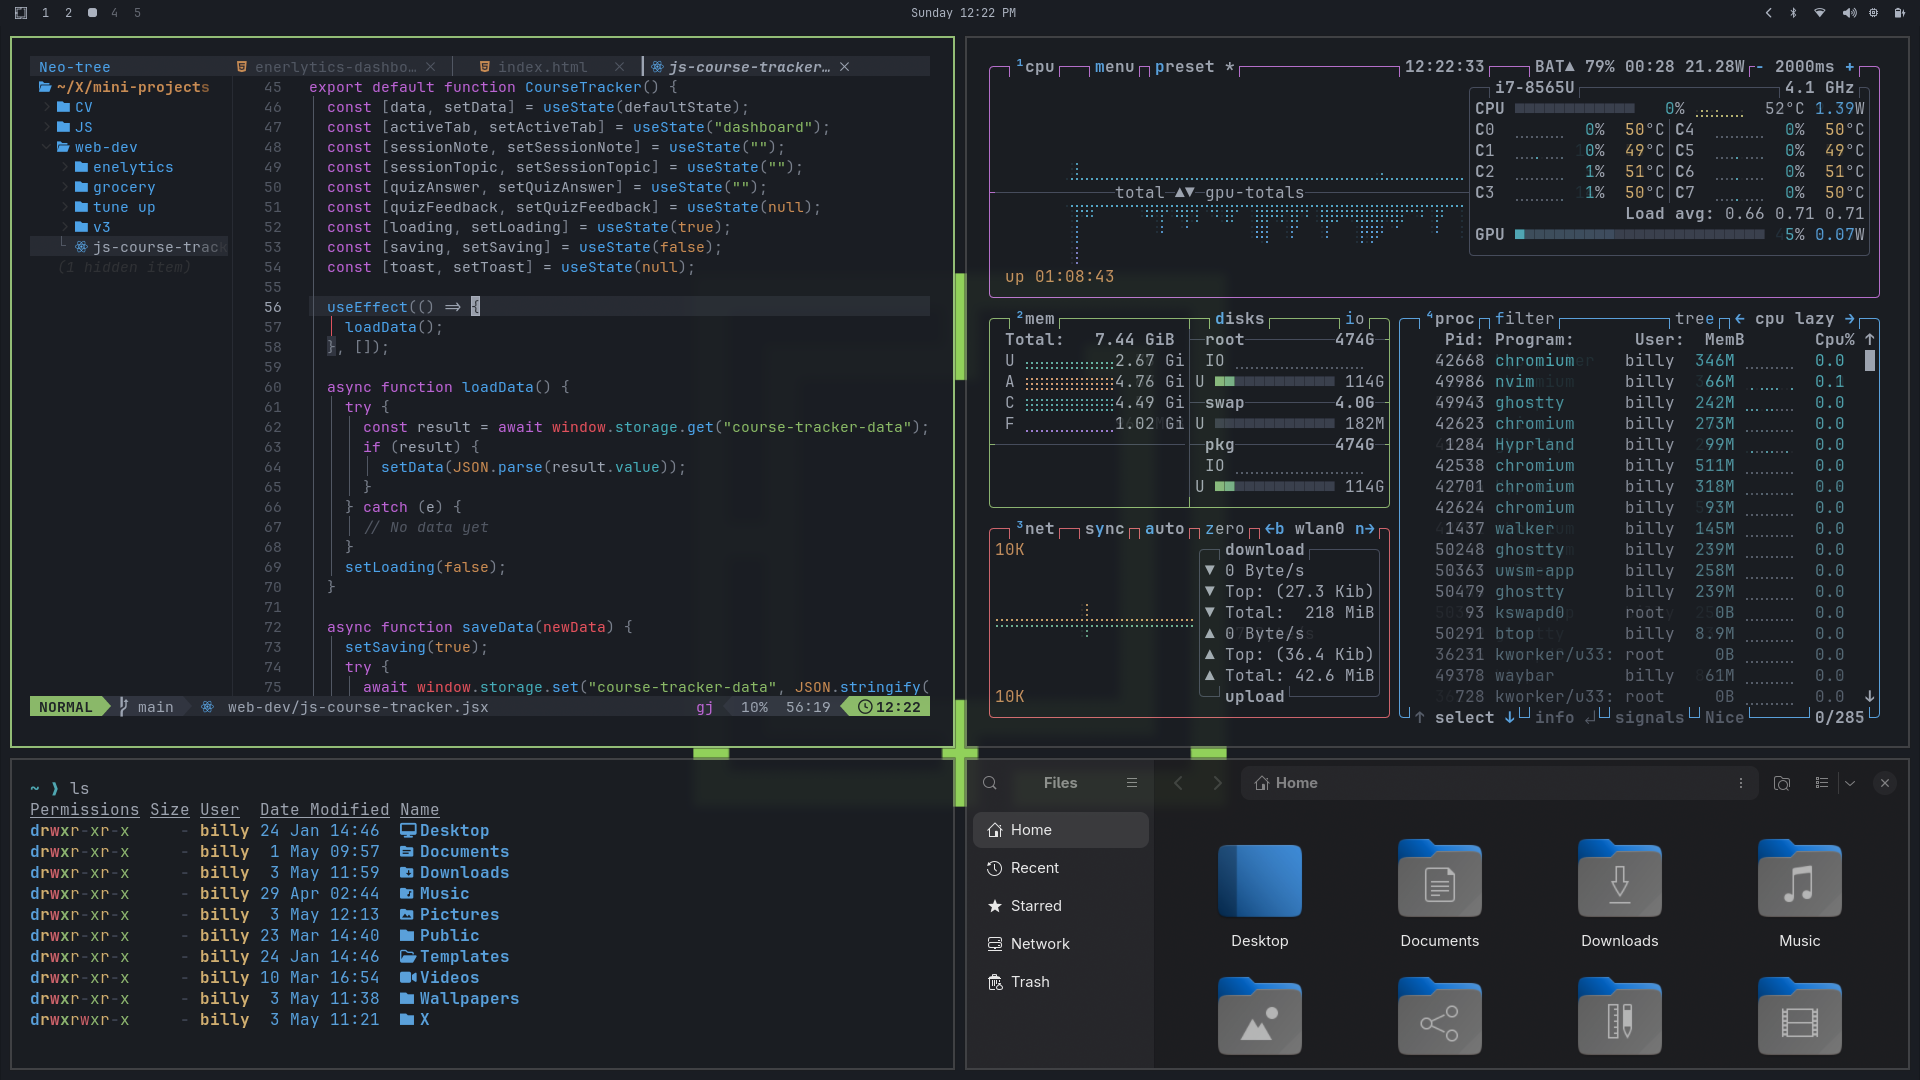
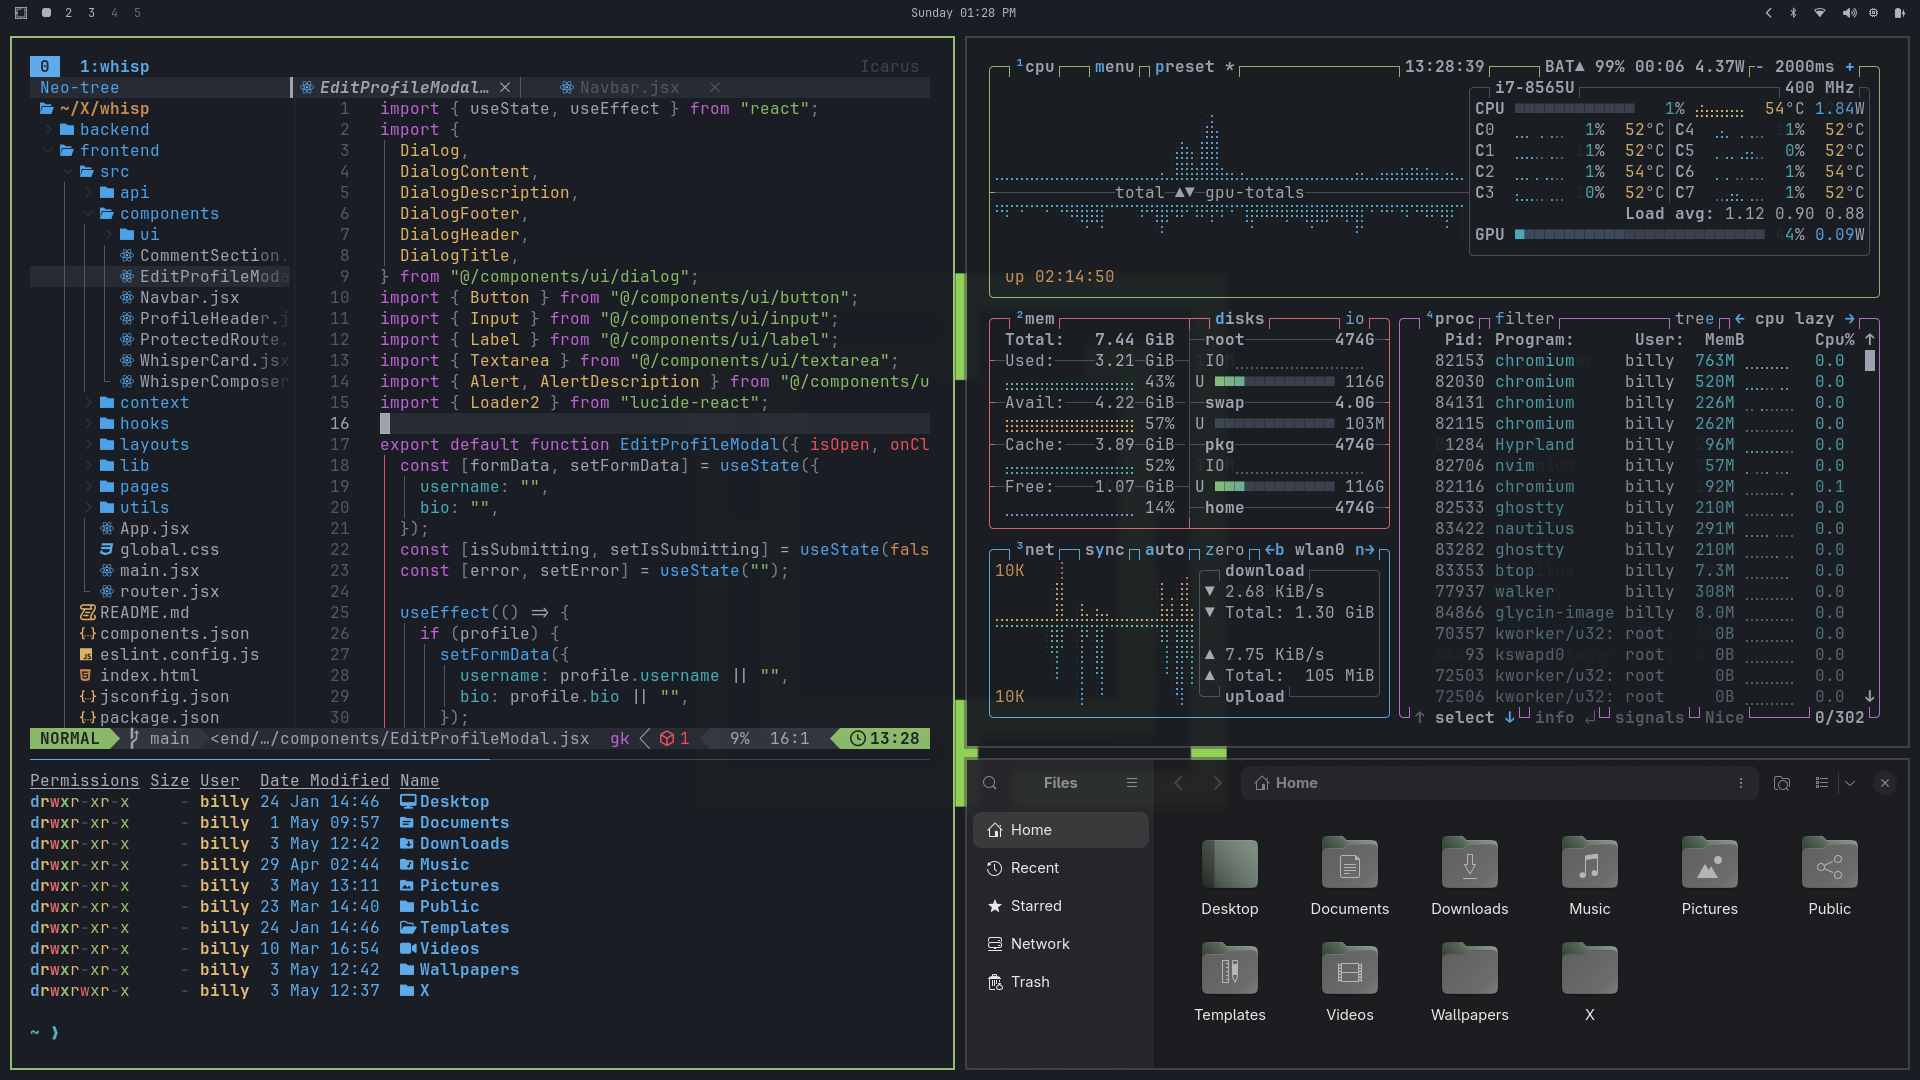
update README with enhanced color palette tables and add preview image

diff --git a/README.md b/README.md
@@ -2,20 +2,65 @@
 
 A dark, flat Omarchy theme built on the One Dark palette. Deep near-black backgrounds, warm grey text, and a muted green accent — calm, easy on the eyes, and quietly alive.
 
+## Preview
+
+![Fern Dusk preview](preview.png)
+
+Desktop wallpaper sample: [backgrounds/omarchy.png](backgrounds/omarchy.png)
+
 ## Color Palette
 
-| Role                | Hex         |
-|---------------------|-------------|
-| Background          | #1a1d23   |
-| Surface / Selection | #3e4452   |
-| Foreground          | #abb2bf   |
-| Comment / Dimmed    | #5c6370   |
-| Accent (Green)      | #98c379   |
-| Blue                | #61afef   |
-| Green               | #98c379   |
-| Yellow              | #e5c07b   |
-| Red                 | #e06c75   |
-| Cyan                | #56b6c2   |
+### Core Tones
+
+<table>
+	<tr>
+		<th>Background</th>
+		<th>Surface / Selection</th>
+		<th>Foreground</th>
+		<th>Comment / Dimmed</th>
+		<th>Accent (Green)</th>
+	</tr>
+	<tr>
+		<td bgcolor="#1a1d23">&nbsp;&nbsp;&nbsp;&nbsp;&nbsp;&nbsp;&nbsp;&nbsp;</td>
+		<td bgcolor="#3e4452">&nbsp;&nbsp;&nbsp;&nbsp;&nbsp;&nbsp;&nbsp;&nbsp;</td>
+		<td bgcolor="#abb2bf">&nbsp;&nbsp;&nbsp;&nbsp;&nbsp;&nbsp;&nbsp;&nbsp;</td>
+		<td bgcolor="#5c6370">&nbsp;&nbsp;&nbsp;&nbsp;&nbsp;&nbsp;&nbsp;&nbsp;</td>
+		<td bgcolor="#98c379">&nbsp;&nbsp;&nbsp;&nbsp;&nbsp;&nbsp;&nbsp;&nbsp;</td>
+	</tr>
+	<tr>
+		<td><code>#1a1d23</code></td>
+		<td><code>#3e4452</code></td>
+		<td><code>#abb2bf</code></td>
+		<td><code>#5c6370</code></td>
+		<td><code>#98c379</code></td>
+	</tr>
+</table>
+
+### Semantic Accents
+
+<table>
+	<tr>
+		<th>Blue</th>
+		<th>Green</th>
+		<th>Yellow</th>
+		<th>Red</th>
+		<th>Cyan</th>
+	</tr>
+	<tr>
+		<td bgcolor="#61afef">&nbsp;&nbsp;&nbsp;&nbsp;&nbsp;&nbsp;&nbsp;&nbsp;</td>
+		<td bgcolor="#98c379">&nbsp;&nbsp;&nbsp;&nbsp;&nbsp;&nbsp;&nbsp;&nbsp;</td>
+		<td bgcolor="#e5c07b">&nbsp;&nbsp;&nbsp;&nbsp;&nbsp;&nbsp;&nbsp;&nbsp;</td>
+		<td bgcolor="#e06c75">&nbsp;&nbsp;&nbsp;&nbsp;&nbsp;&nbsp;&nbsp;&nbsp;</td>
+		<td bgcolor="#56b6c2">&nbsp;&nbsp;&nbsp;&nbsp;&nbsp;&nbsp;&nbsp;&nbsp;</td>
+	</tr>
+	<tr>
+		<td><code>#61afef</code></td>
+		<td><code>#98c379</code></td>
+		<td><code>#e5c07b</code></td>
+		<td><code>#e06c75</code></td>
+		<td><code>#56b6c2</code></td>
+	</tr>
+</table>
 
 ## Installation
 
@@ -36,7 +81,8 @@ Or install from the Omarchy menu: Super + Alt + Space → Install → Style → 
 | [btop.theme](btop.theme)      | btop gradients (green→yellow→red; cyan→green for net)          |
 | [vscode.json](vscode.json)    | VS Code theme mapping                                          |
 | [icons.theme](icons.theme)    | Papirus‑Dark icon set                                          |
-| backgrounds/                  | Wallpapers (place PNG/JPG images here)                         |
+| [preview.png](preview.png)    | Main README screenshot/preview image                            |
+| [backgrounds/](backgrounds/)  | Wallpapers (place PNG/JPG images here)                         |
 
 ### Auto-generated Outputs
 
